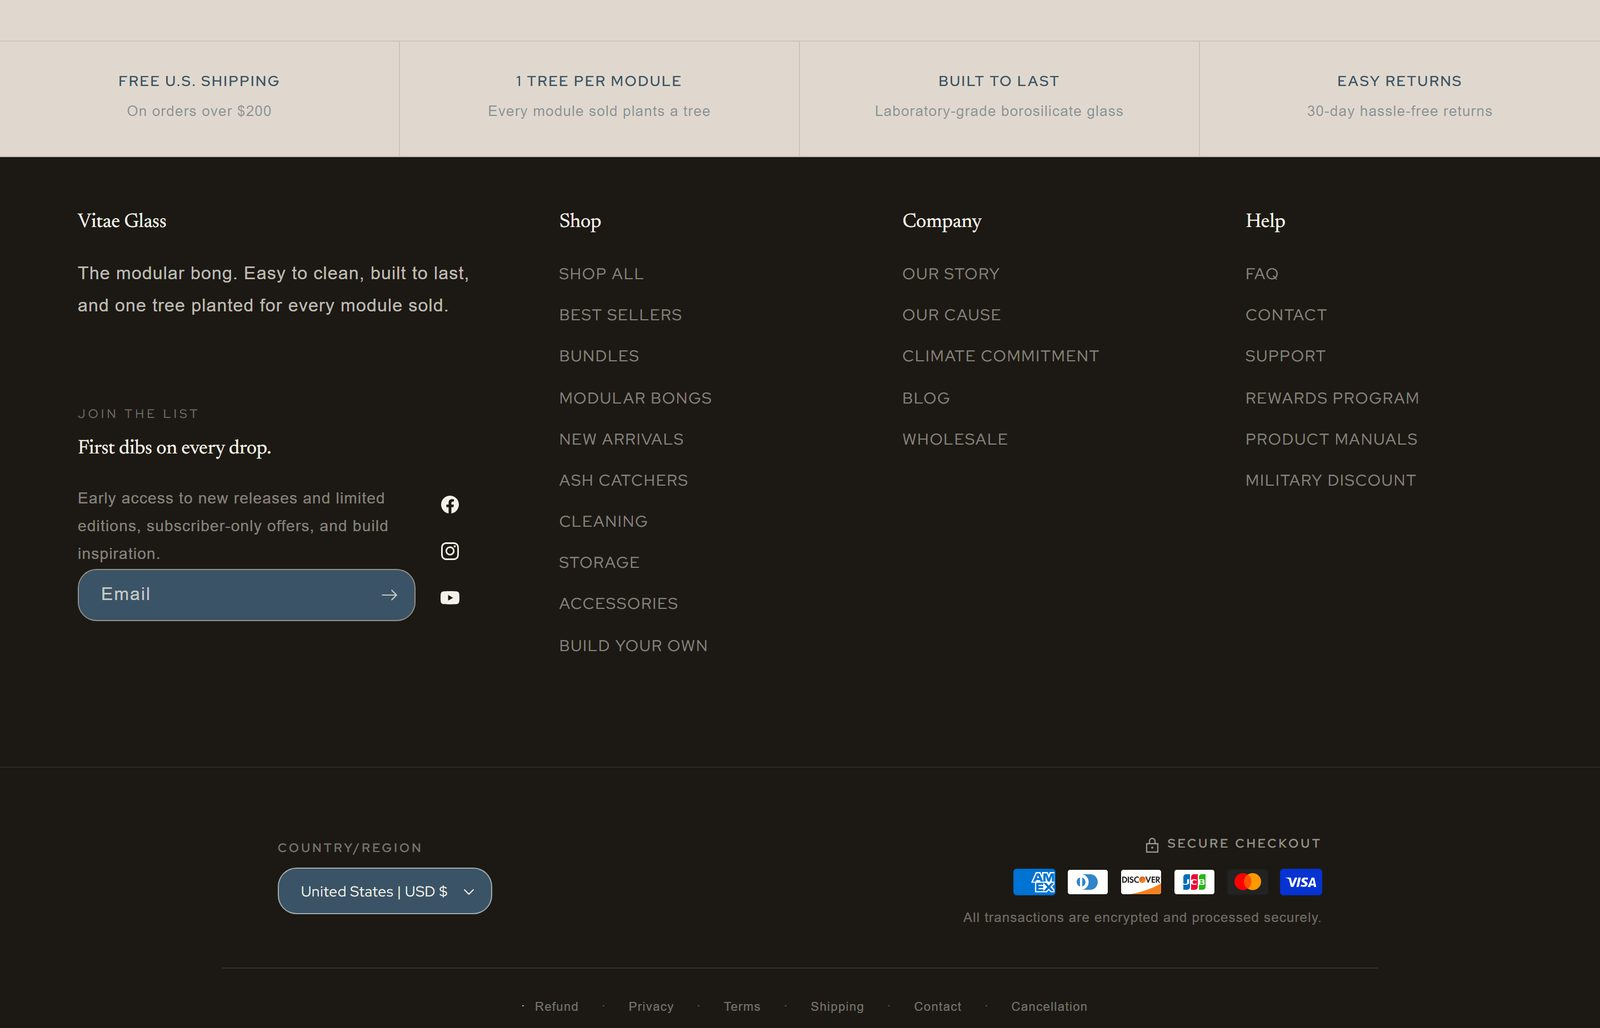
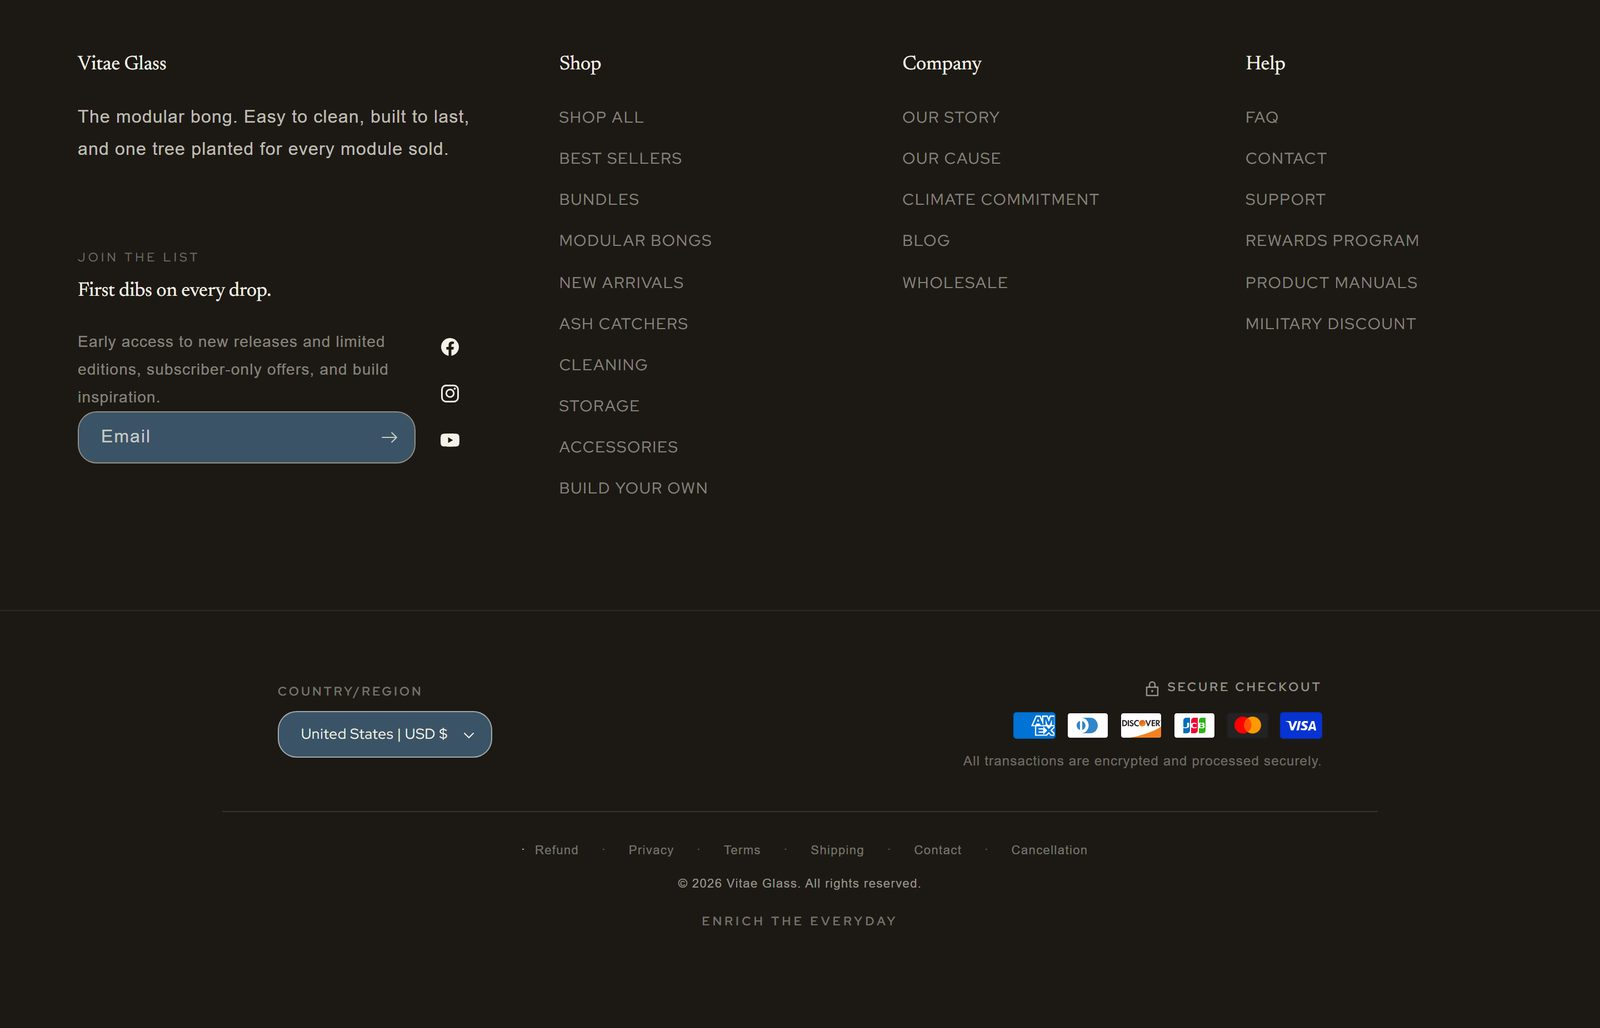
October 22 walkthrough: tighter footer, client wording

diff --git a/public/updates/october-22/index.html b/public/updates/october-22/index.html
@@ -76,7 +76,7 @@
 <div class="wrap">
 
   <header class="brand">
-    <img class="brand__logo" src="media/lever-logo.png" alt="Lever Agency" width="128" height="30">
+    <img class="brand__logo" src="media/lever-logo.png?v=3" alt="Lever Agency" width="128" height="30">
     <span class="brand__client">Prepared for Vitae Glass</span>
   </header>
   <p class="eyebrow">Feedback round · October 22, 2026</p>
@@ -101,52 +101,55 @@
 
   <div class="item" id="menu">
     <h2>1. Menu text white at the top of the page</h2>
-    <div class="req">Your feedback: the menu text is white above the fold and only turns dark after scrolling.</div>
+    <div class="req">Your feedback: the menu dropdown is white with white text when it first appears above the fold, turns dark once you scroll down, and goes back to white when you scroll up again.</div>
     <p>
       On phones, opening the menu at the very top of the homepage showed white links on the light menu panel, which made them close to invisible.
       The menu now always uses the dark text of its panel, whether you have scrolled or not.
       This was not caused by a colour setting, so nothing needs changing in your theme colours.
     </p>
     <div class="pair narrow">
-      <figure class="phone"><figcaption class="before">Before</figcaption><img src="media/menu-phone-before.jpg" alt="Phone menu with white links on a light panel"></figure>
-      <figure class="phone"><figcaption class="after">After</figcaption><img src="media/menu-phone-after.jpg" alt="Phone menu with dark, readable links"></figure>
+      <figure class="phone"><figcaption class="before">Before</figcaption><img src="media/menu-phone-before.jpg?v=3" alt="Phone menu with white links on a light panel"></figure>
+      <figure class="phone"><figcaption class="after">After</figcaption><img src="media/menu-phone-after.jpg?v=3" alt="Phone menu with dark, readable links"></figure>
     </div>
     <p class="note">A refinement from our side: the "Earn Free Gifts" tab used to float on top of the open menu and the cart. It now steps aside while either one is open.</p>
   </div>
 
   <div class="item" id="stars">
     <h2>2. Review stars on the best sellers</h2>
-    <div class="req">Your request: add review stars to the best sellers section on the homepage.</div>
+    <div class="req">Your question: do you think it would be wise to add review stars to this section too?</div>
     <p>
-      Every product in "Our most-loved builds" now shows its yellow review stars and review count right next to the price.
+      Yes, we recommend it.
+      This section is the first set of products most visitors see, and the review counts are strong (305 reviews on the Voyager UFO alone), so showing them there builds trust before anyone clicks through.
+      It also matches the product cards everywhere else on the site, which already show stars.
+      So we went ahead: every product in "Our most-loved builds" now shows its yellow review stars and review count right next to the price.
       The numbers come from your reviews app, so they always match the reviews on each product page.
       Products with no reviews yet simply show the price.
     </p>
     <div class="pair">
-      <figure><figcaption class="before">Before</figcaption><img src="media/bestsellers-desktop-before.jpg" alt="Best sellers grid without stars"></figure>
-      <figure><figcaption class="after">After</figcaption><img src="media/bestsellers-desktop-after.jpg" alt="Best sellers grid with yellow stars beside each price"></figure>
+      <figure><figcaption class="before">Before</figcaption><img src="media/bestsellers-desktop-before.jpg?v=3" alt="Best sellers grid without stars"></figure>
+      <figure><figcaption class="after">After</figcaption><img src="media/bestsellers-desktop-after.jpg?v=3" alt="Best sellers grid with yellow stars beside each price"></figure>
     </div>
     <div class="pair narrow">
-      <figure class="phone"><figcaption class="before">Before, on a phone</figcaption><div class="scrollshot"><img src="media/bestsellers-phone-before.jpg" alt="Best sellers on a phone without stars"></div></figure>
-      <figure class="phone"><figcaption class="after">After, on a phone</figcaption><div class="scrollshot"><img src="media/bestsellers-phone-after.jpg" alt="Best sellers on a phone with stars"></div></figure>
+      <figure class="phone"><figcaption class="before">Before, on a phone</figcaption><div class="scrollshot"><img src="media/bestsellers-phone-before.jpg?v=3" alt="Best sellers on a phone without stars"></div></figure>
+      <figure class="phone"><figcaption class="after">After, on a phone</figcaption><div class="scrollshot"><img src="media/bestsellers-phone-after.jpg?v=3" alt="Best sellers on a phone with stars"></div></figure>
     </div>
   </div>
 
   <div class="item" id="footer">
     <h2>3. Footer too tall, especially on mobile</h2>
-    <div class="req">Your request: the footer takes up too much space, especially on mobile. Reduce the line spacing and the dead space.</div>
+    <div class="req">Your request: the footer takes up a lot of space, especially on mobile. Shrink it down, reduce the line spacing and eliminate some dead space.</div>
     <p>
       The spacing between links, headings and sections is tighter everywhere.
       On phones the Shop links now sit in a left column, with Company and Help stacked beside them on the right, instead of three long lists one after another.
-      The phone footer is about 40% shorter, the desktop footer is slightly tighter (about 10% shorter), and every link and line of text is still there.
+      The phone footer is now just over half its old height (46% shorter). Since mobile was the main concern, the desktop footer only got a light tightening of the link spacing (about 10% shorter). Every link and line of text is still there.
     </p>
     <div class="pair narrow">
-      <figure class="phone"><figcaption class="before">Before, on a phone<small>Scroll inside the card to see it all.</small></figcaption><div class="scrollshot"><img src="media/footer-phone-before.jpg" alt="Tall phone footer with three stacked link lists"></div></figure>
-      <figure class="phone"><figcaption class="after">After, on a phone<small>About 40% shorter, nothing removed.</small></figcaption><div class="scrollshot"><img src="media/footer-phone-after.jpg" alt="Compact phone footer with links in two columns"></div></figure>
+      <figure class="phone"><figcaption class="before">Before, on a phone<small>Scroll inside the card to see it all.</small></figcaption><div class="scrollshot"><img src="media/footer-phone-before.jpg?v=3" alt="Tall phone footer with three stacked link lists"></div></figure>
+      <figure class="phone"><figcaption class="after">After, on a phone<small>46% shorter, nothing removed.</small></figcaption><div class="scrollshot"><img src="media/footer-phone-after.jpg?v=3" alt="Compact phone footer with links in two columns"></div></figure>
     </div>
     <div class="pair">
-      <figure><figcaption class="before">Before, desktop</figcaption><img src="media/footer-desktop-before.jpg" alt="Desktop footer before"></figure>
-      <figure><figcaption class="after">After, desktop</figcaption><img src="media/footer-desktop-after.jpg" alt="Tighter desktop footer"></figure>
+      <figure><figcaption class="before">Before, desktop</figcaption><img src="media/footer-desktop-before.jpg?v=3" alt="Desktop footer before"></figure>
+      <figure><figcaption class="after">After, desktop</figcaption><img src="media/footer-desktop-after.jpg?v=3" alt="Tighter desktop footer"></figure>
     </div>
   </div>
 
@@ -159,8 +162,8 @@
       If a product has nothing filled in for one of them, that tab is hidden on its page, so a customer never opens an empty tab.
     </p>
     <div class="pair">
-      <figure><figcaption class="before">Before<small>Placeholder text, no What's included tab.</small></figcaption><img src="media/tabs-desktop-before.jpg" alt="Product tabs with placeholder specs text"></figure>
-      <figure><figcaption class="after">After<small>16" Voyager UFO Bong, both tabs open.</small></figcaption><img src="media/tabs-desktop-after.jpg" alt="Product tabs showing the real included items and specs"></figure>
+      <figure><figcaption class="before">Before<small>Placeholder text, no What's included tab.</small></figcaption><img src="media/tabs-desktop-before.jpg?v=3" alt="Product tabs with placeholder specs text"></figure>
+      <figure><figcaption class="after">After<small>16" Voyager UFO Bong, both tabs open.</small></figcaption><img src="media/tabs-desktop-after.jpg?v=3" alt="Product tabs showing the real included items and specs"></figure>
     </div>
     <div class="howto">
       <h3>How to fill in or edit these yourself</h3>
@@ -183,12 +186,12 @@
       You can also make it lighter or darker yourself (steps below).
     </p>
     <div class="pair">
-      <figure><figcaption class="before">Before</figcaption><img src="media/hero-desktop-before.jpg" alt="Homepage banner with white text on a light video frame"></figure>
-      <figure><figcaption class="after">After</figcaption><img src="media/hero-desktop-after.jpg" alt="Homepage banner with readable white text"></figure>
+      <figure><figcaption class="before">Before</figcaption><img src="media/hero-desktop-before.jpg?v=3" alt="Homepage banner with white text on a light video frame"></figure>
+      <figure><figcaption class="after">After</figcaption><img src="media/hero-desktop-after.jpg?v=3" alt="Homepage banner with readable white text"></figure>
     </div>
     <div class="pair narrow">
-      <figure class="phone"><figcaption class="before">Before, on a phone</figcaption><img src="media/hero-phone-before.jpg" alt="Phone homepage banner before"></figure>
-      <figure class="phone"><figcaption class="after">After, on a phone</figcaption><img src="media/hero-phone-after.jpg" alt="Phone homepage banner after"></figure>
+      <figure class="phone"><figcaption class="before">Before, on a phone</figcaption><img src="media/hero-phone-before.jpg?v=3" alt="Phone homepage banner before"></figure>
+      <figure class="phone"><figcaption class="after">After, on a phone</figcaption><img src="media/hero-phone-after.jpg?v=3" alt="Phone homepage banner after"></figure>
     </div>
     <div class="howto">
       <h3>How to adjust the shading yourself</h3>
@@ -212,12 +215,12 @@
       Both still open exactly what they did before.
     </p>
     <div class="pair narrow">
-      <figure><figcaption class="before">Before, desktop<small>Tab mid-screen, gift button alone in the corner.</small></figcaption><img src="media/badges-desktop-before.jpg" alt="Earn Free Gifts tab with the rewards button far below in the corner"></figure>
-      <figure><figcaption class="after">After, desktop<small>One slim strip.</small></figcaption><img src="media/badges-desktop-after.jpg" alt="Rewards button docked directly under the Earn Free Gifts tab"></figure>
+      <figure><figcaption class="before">Before, desktop<small>Tab mid-screen, gift button alone in the corner.</small></figcaption><img src="media/badges-desktop-before.jpg?v=3" alt="Earn Free Gifts tab with the rewards button far below in the corner"></figure>
+      <figure><figcaption class="after">After, desktop<small>One slim strip.</small></figcaption><img src="media/badges-desktop-after.jpg?v=3" alt="Rewards button docked directly under the Earn Free Gifts tab"></figure>
     </div>
     <div class="pair narrow">
-      <figure class="phone"><figcaption class="before">Before, on a phone<small>Gift button over the page, next to the buy area.</small></figcaption><img src="media/badges-phone-before.jpg" alt="Phone product page with the rewards button over the quantity box"></figure>
-      <figure class="phone"><figcaption class="after">After, on a phone<small>Clear of the buy area.</small></figcaption><img src="media/badges-phone-after.jpg" alt="Phone product page with both badges stacked on the right edge"></figure>
+      <figure class="phone"><figcaption class="before">Before, on a phone<small>Gift button over the page, next to the buy area.</small></figcaption><img src="media/badges-phone-before.jpg?v=3" alt="Phone product page with the rewards button over the quantity box"></figure>
+      <figure class="phone"><figcaption class="after">After, on a phone<small>Clear of the buy area.</small></figcaption><img src="media/badges-phone-after.jpg?v=3" alt="Phone product page with both badges stacked on the right edge"></figure>
     </div>
 
     <h3 class="sub">Left side: adjustable in your popup apps</h3>
@@ -228,7 +231,7 @@
       If the apps' settings cannot get them where you want them, see <a href="#next">Next phase</a> at the bottom.
     </p>
     <div class="pair slim">
-      <figure><figcaption>Today<small>Spin to Win tab on the left edge, after the popup is closed.</small></figcaption><img src="media/left-tab-now.jpg" alt="Spin to Win tab on the left edge of the page"></figure>
+      <figure><figcaption>Today<small>Spin to Win tab on the left edge, after the popup is closed.</small></figcaption><img src="media/left-tab-now.jpg?v=3" alt="Spin to Win tab on the left edge of the page"></figure>
     </div>
   </div>
 
@@ -246,7 +249,7 @@
     <h3 class="sub">Side by side on a typical phone</h3>
     <p>Both loads below use the same simulated mid-range phone on a 4G connection, starting at the same moment. Popups were hidden on both so you can see the page itself.</p>
     <div class="pair single narrow">
-      <figure><figcaption>Before (left) and after (right), real time</figcaption><video src="media/speed-phone.mp4" poster="media/speed-phone-poster.jpg" controls muted playsinline preload="metadata"></video></figure>
+      <figure><figcaption>Before (left) and after (right), real time</figcaption><video src="media/speed-phone.mp4?v=3" poster="media/speed-phone-poster.jpg?v=3" controls muted playsinline preload="metadata"></video></figure>
     </div>
 
     <div class="tablewrap">
@@ -316,7 +319,7 @@
   </div>
 
   <footer class="foot">
-    <img src="media/lever-logo.png" alt="Lever Agency">
+    <img src="media/lever-logo.png?v=3" alt="Lever Agency">
     <span>Vitae Glass Shopify redesign · Lever Agency · October 2026</span>
   </footer>
 
